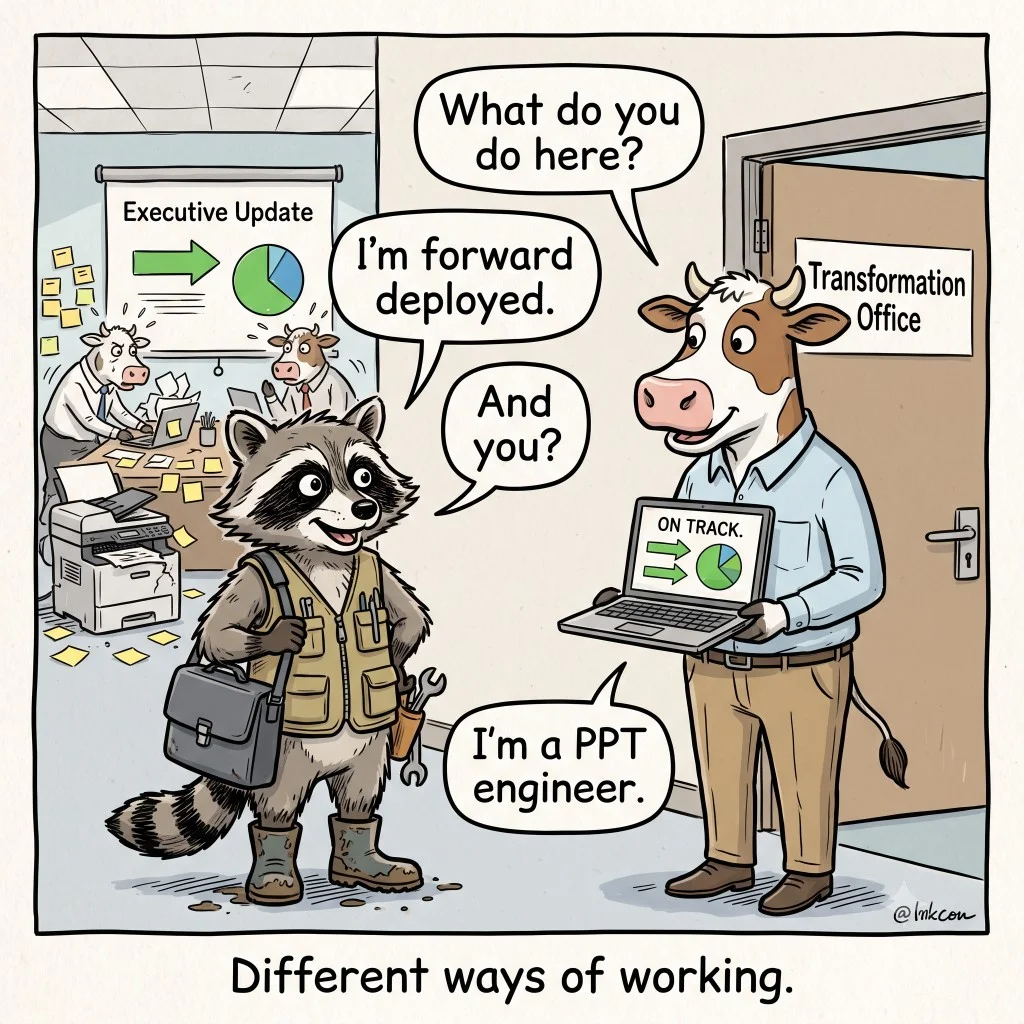
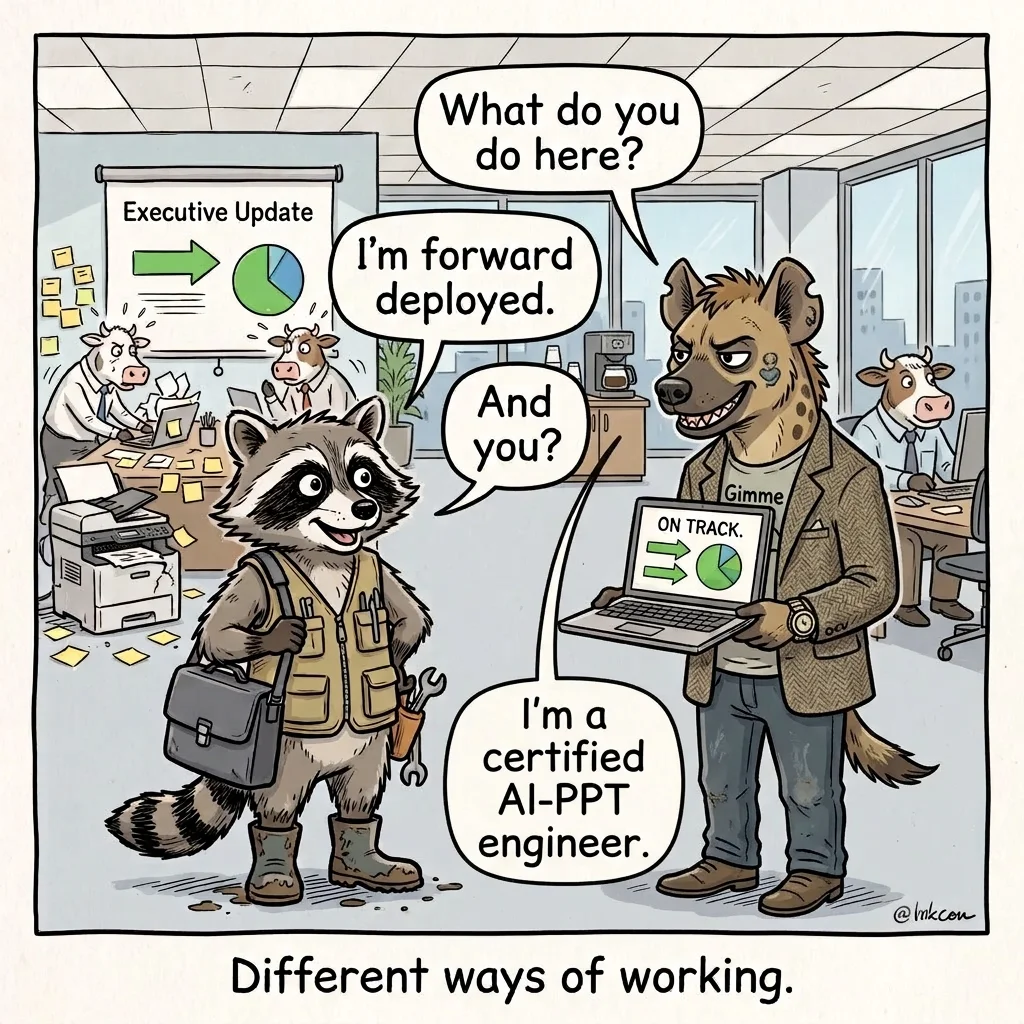
Ship Cube-Cows W33 panel and refresh publish calendar. (#43)
Adds Spanish sibling and LinkedIn sidecar; updates hero image and English teaser.

diff --git a/content/cognitive-memetics/cows/2026-10-07-cow-w33/index.es.md b/content/cognitive-memetics/cows/2026-10-07-cow-w33/index.es.md
@@ -5,8 +5,8 @@ date: '2026-10-07T01:00:00+11:00'
 type: panel
 heading_code: W33
 project: Cube-Cows 🐮📈
-title: Different ways of working
-description: "This week, we observe the massive divide between those doing the labor and those crafting the **narrative of success**. The hyena is busy perfecting a slide deck to prove everything is fine, even as the background cows are drowning in a sea of **sticky notes and printer jams**. One person builds the reality while the other builds the presentation."
+title: "Formas distintas de trabajar"
+description: "Esta semana se nota la grieta entre quien hace el trabajo de verdad y quien teje la **historia del éxito**. La hiena pule el deck para demostrar que todo va **en verde**, mientras las vacas de fondo se ahogan entre **post-its y atascos de impresora**. Uno arma la realidad; el otro arma la presentación."
 draft: false
 
 featuredImage: "different-ways-of-working.webp"
